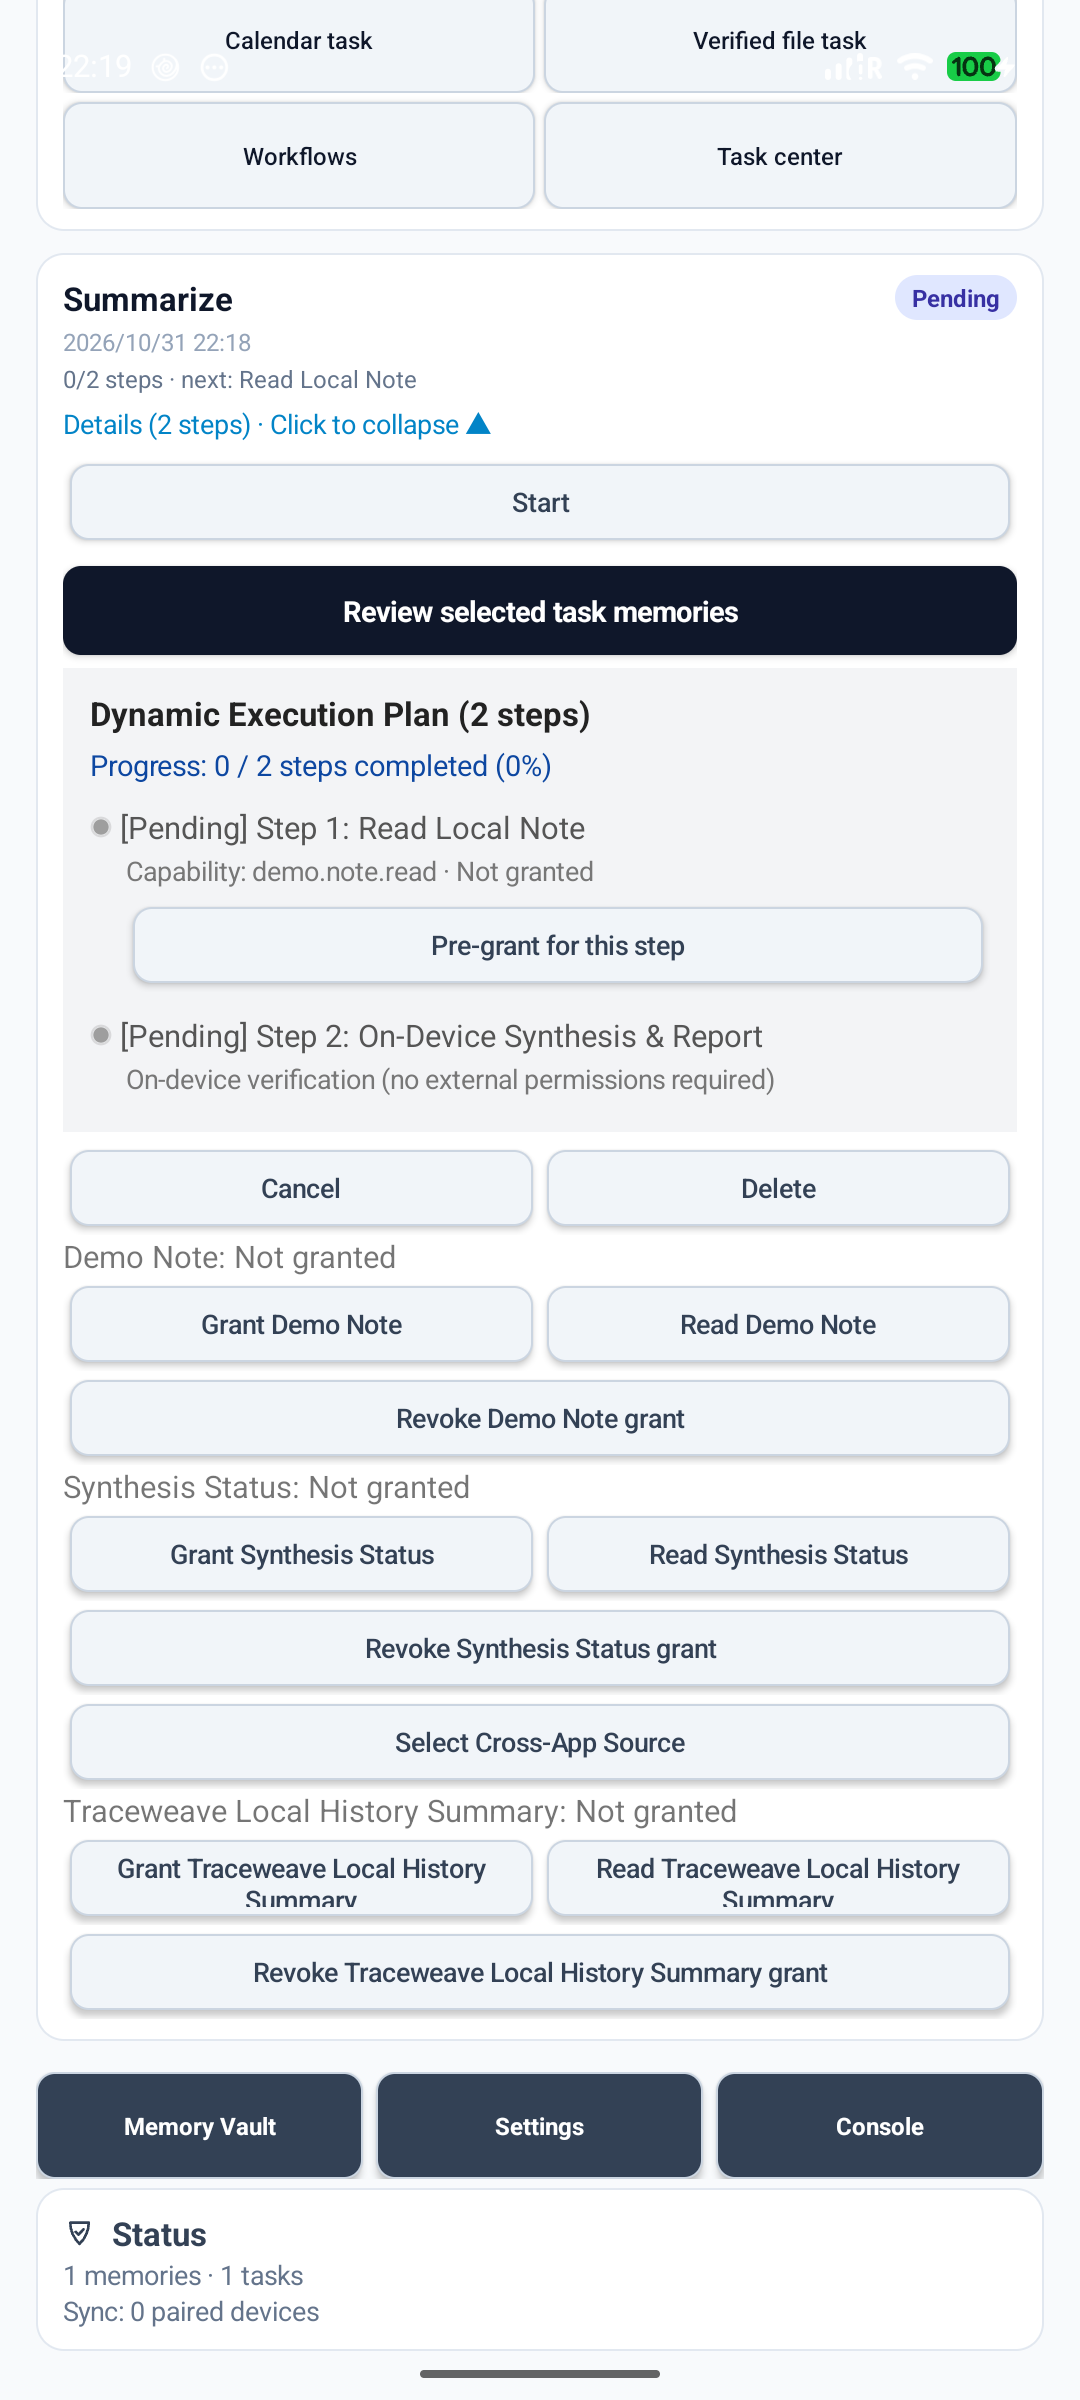
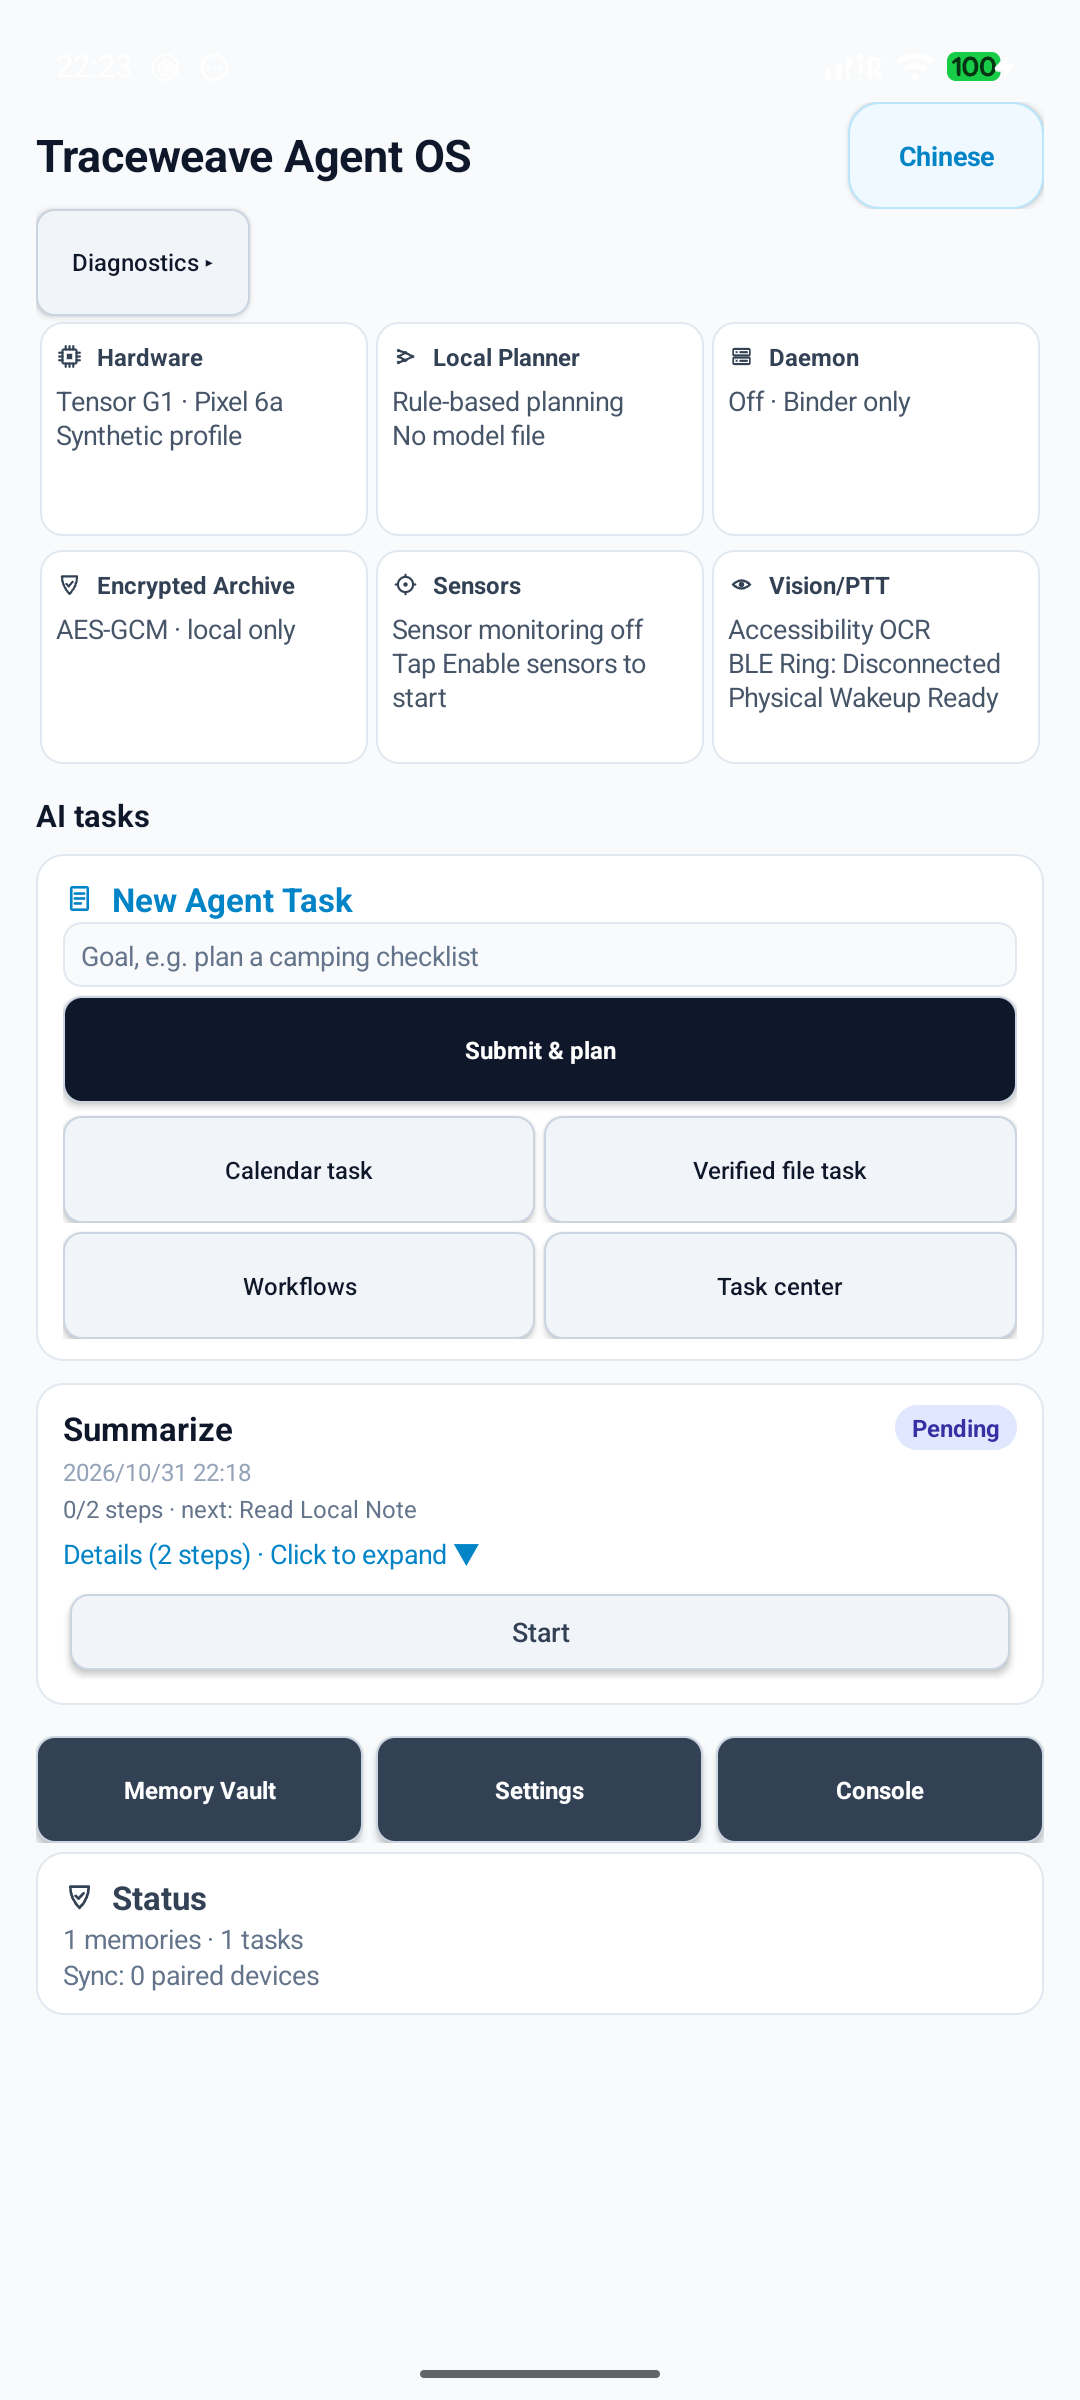
Collapse raw capability controls behind an advanced section

diff --git a/agent_os/android/src/com/inceptless/traceweave/MainActivity.java b/agent_os/android/src/com/inceptless/traceweave/MainActivity.java
@@ -1354,7 +1354,23 @@ public final class MainActivity extends Activity {
         detailContainer.addView(actions);
 
         if (!isTerminal && !documentPlanning) {
-            addCapabilityControls(detailContainer, task);
+            // Raw grant/read/revoke rows are diagnostics; a normal task flow only
+            // needs Start, review, cancel and delete.
+            LinearLayout advanced = new LinearLayout(this);
+            advanced.setOrientation(LinearLayout.VERTICAL);
+            advanced.setVisibility(View.GONE);
+            addCapabilityControls(advanced, task);
+            Button advancedToggle = createCompactActionButton(T.s("task.advanced_closed", en),
+                Ui.secondaryBg(this), Ui.secondaryFg(this), view -> {
+                    boolean showing = advanced.getVisibility() == View.VISIBLE;
+                    advanced.setVisibility(showing ? View.GONE : View.VISIBLE);
+                    ((Button) view).setText(T.s(showing ? "task.advanced_closed" : "task.advanced_open", en));
+                });
+            LinearLayout.LayoutParams advancedLp = new LinearLayout.LayoutParams(
+                LinearLayout.LayoutParams.MATCH_PARENT, dp(48));
+            advancedLp.setMargins(0, dp(4), 0, 0);
+            detailContainer.addView(advancedToggle, advancedLp);
+            detailContainer.addView(advanced);
         }
 
         card.addView(detailContainer);

diff --git a/agent_os/android/src/com/inceptless/traceweave/T.java b/agent_os/android/src/com/inceptless/traceweave/T.java
@@ -697,6 +697,8 @@ final class T {
         add("ui.diagnostics_open", "Diagnostics ▾", "诊断 ▾");
         add("ui.chinese", "Chinese", "中文");
         add("ui.english", "English", "英文");
+        add("task.advanced_closed", "Advanced capability controls ▸", "高级能力控制 ▸");
+        add("task.advanced_open", "Advanced capability controls ▾", "高级能力控制 ▾");
         add("sync.wait_peer", "Wait for peer", "等待对端");
         add("sync.now", "Sync now", "同步现在");
         add("sync.auto", "Automatic sync while the app is open", "应用打开时自动同步");

diff --git a/docs/agent_os_milestones_2026-10-30.md b/docs/agent_os_milestones_2026-10-30.md
@@ -414,7 +414,8 @@
 - 2026-10-31：把修复回路接进应用——文稿重试时会把上次的校验失败原因写回提示（`strictPrompt(goal, memories, previousFailure)`），不再只是“再说一次”。
 - 2026-10-31：内容质量实验（严格提示 vs 修复回路）——同一 10 例、grammar + 512 token：基线内容 **5/10**，加“不要复述示例/用真实日期/类型匹配”的严格提示升到 **6/10**，再加一轮“把失败项写回提示重生成”的修复后升到 **10/10**（4 例被修复）。结论：**校验 + 定向重生成**比单纯加强提示有效得多。数据 [json7_strict_prompt](../artifacts/agent_os/next_stage/json7_strict_prompt_20261031.json)、[json8_repair](../artifacts/agent_os/next_stage/json8_repair_20261031.json)。
 - 2026-10-31：**Edge 应用同步改名**——`android/` 的 Traceform 应用改为 `com.inceptless.traceweave.edge`：97 个 Java 源文件迁移、清单与签名权限、`knownCerts` 引用、跨应用调用方白名单（`com.inceptless.traceweave` / `.actionsvalidation`）、JNI 符号（11 处）、security probe 包名、以及 `scripts/` 与 `tests/` 中 62 个文件。验证：agent_os 宿主测试 58 项通过；根 pytest **597 passed / 1 failed（既有问题，见下）/ 11 skipped**。
-- 2026-10-31：**README 截图与中文版**——用 0.1.0 真机截图替换旧的占位图（首页浅色/深色、任务与执行计划、记忆库、审计日志、设置六张，存 `docs/assets/screen_*.png`），并修掉 README 里指向不存在的 `traceweave_os_handheld_dashboard_en.png` 的坏链；新增 [README.zh-CN.md](README.zh-CN.md) 中文版，两份互相链接、结构对齐；顺手更正两处已过时的说法（后台同步、Edge 签名身份与集成状态）。
+- 2026-10-31：**任务卡收敛**——展开任务卡原本会露出 `Grant Demo Note`/`Read Demo Note`/`Revoke …`/`Select Cross-App Source` 等一长排能力行，读起来像调试开关。改为收进「高级能力控制 ▸」默认折叠；卡片只保留 `Start`、`Review selected task memories`、执行计划、`Cancel`、`Delete`。步骤内的 `Pre-grant` 保留可见，因为不授权步骤跑不起来。设备验证：折叠态与展开态均符合预期。收据 [advanced_controls_20261031](../artifacts/agent_os/next_stage/ui/advanced_controls_20261031.json)。
+- 2026-10-31：**README 截图与中文版**——用 0.1.0 真机截图替换旧的占位图（首页浅色/深色、任务与执行计划、记忆库、审计日志、设置六张，存 `docs/assets/screen_*.png`），并修掉 README 里指向不存在的 `traceweave_os_handheld_dashboard_en.png` 的坏链；新增 [README.zh-CN.md](../README.zh-CN.md) 中文版，两份互相链接、结构对齐；顺手更正两处已过时的说法（后台同步、Edge 签名身份与集成状态）。
 - 2026-10-31：**单色系与标题**——首页六张卡片与底部三个入口统一到同一 slate 色（`Ui.cardAccent` 按主题取色），不再用六种颜色竞争注意力；标题去掉「原型」，键改为 `ui.app_title`（品牌名中英同形，加入目录的“同形允许表”）。浅色/深色各截一张确认。收据 [ui_mono_20261031](../artifacts/agent_os/next_stage/ui/ui_mono_20261031.json)。
 - 2026-10-31：**UI 三批优化（P0/P1/P2）**——P0：触控目标统一到 48dp（语言切换、提交、四个次级按钮、底部三个入口、输入框），把 `JAVA FALLBACK`/`DAEMON DISABLED`/`PIXEL 6A` 收进「诊断」折叠区，空态加「新建第一个任务」并提供聚焦输入框的动作；P1：只保留「提交并规划」为实心主按钮、四个次级操作改描边样式、卡片正文 10sp→12sp、末尾补「状态」卡片消除大片留白；P2：语言按钮显示目标语言（中文界面显示「英文」）、六张卡片都有动作（感知弹面板、规划进模型页、守护进程解释、归档报计数）、首页直接显示记忆/任务数与已配对设备数。首版深色截图暴露出白底次级按钮与深底深字，改为经 `Ui.body/secondaryBg/secondaryFg` 取色并让输入框跟随主题。验证：设备回归 RUN_SUITE 48 / TASK_CENTER 10 / RUN_DOCUMENTS 20 / VERIFY_DOCUMENT_RESTART 8 全过。收据 [ui_p012_20261031](../artifacts/agent_os/next_stage/ui/ui_p012_20261031.json)。
 - 2026-10-31：**P0 三项收尾**——①`agent_os_release_process.md` 改写为当前事实（包名、改名=身份变更、唯一迁移路径、ArchiveCompat 保证）；②从 HEAD 重建 0.1.0 并替换草稿资产（含 Edge 构建、兼容层、导入弹窗修复），设备冒烟 `ok: true`；③新增 `test_package_consistency.py`：清单包名、旧包名残留（仅允许 `ArchiveCompat` 一处）、跨应用字符串必须落在仓库已声明的包上、清单组件必须有源码、快捷方式 intent 必须指向本应用存在的类。负向验证：把快捷方式 targetPackage 改成 `com.inceptless.edge` 该测试立即失败。收据 [p0_closeout_20261031](../artifacts/agent_os/next_stage/p0_closeout_20261031.json)。
